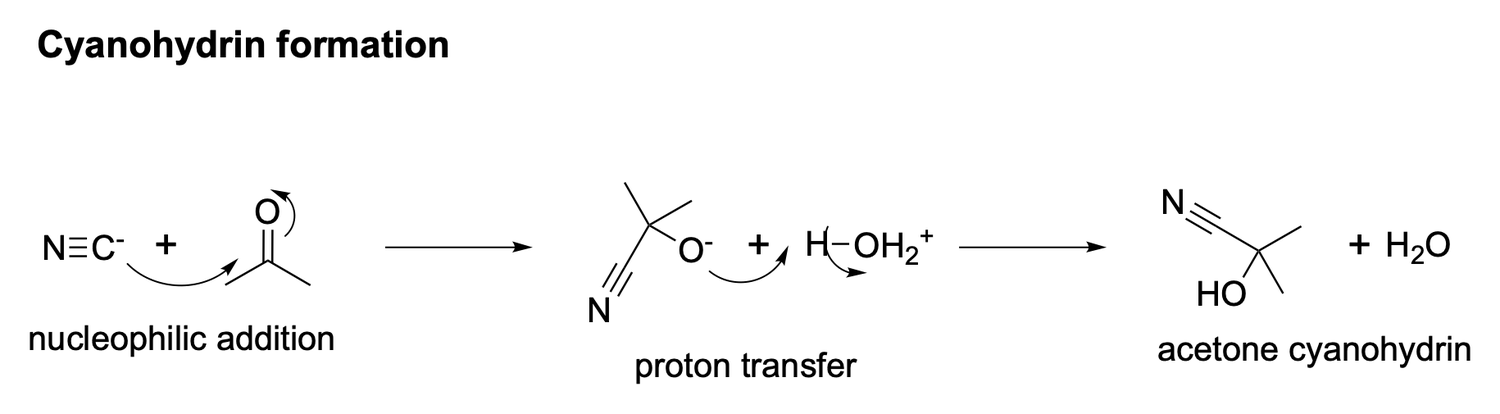
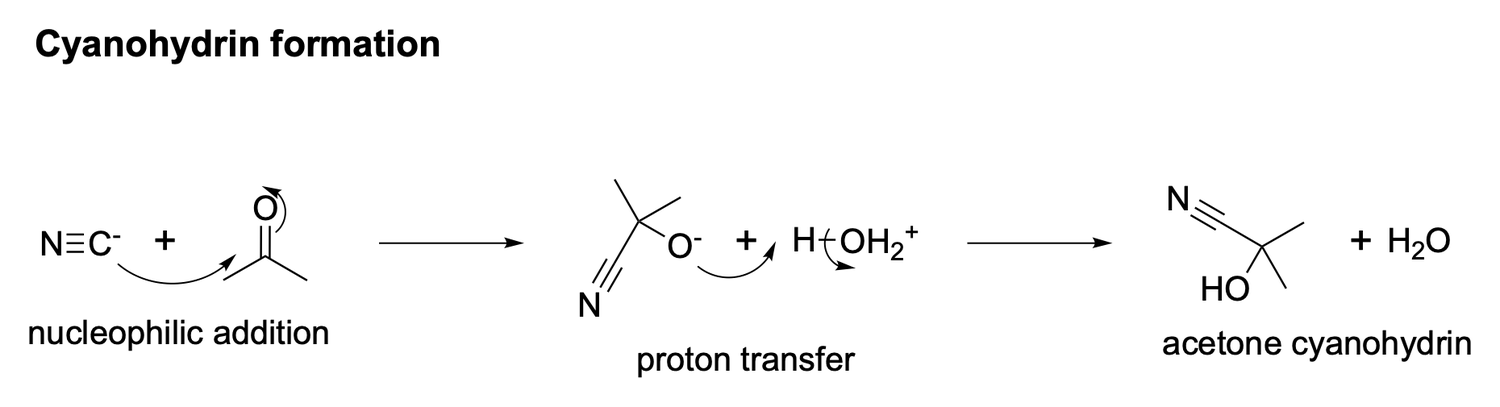
mechanism: fix arrow endpoints (label boxes, charges, hydrogens), add HBr mechanism to the gallery

diff --git a/chemdrawmcp/mechanism.py b/chemdrawmcp/mechanism.py
@@ -57,7 +57,7 @@ LABEL_OFFSET = 0.42         # arrow head outside a labelled atom (O, N, Cl, char
 LONE_PAIR_OFFSET = 0.5      # arrow tail leaving a lone pair / anion
 MAX_ATOM_OFFSET = 0.6       # normally never further than this from the referenced atom ...
 MAX_LABEL_OFFSET = 1.0      # ... unless a wide label ("OH-", "H3N+") has to be cleared
-BOND_OFFSET = 0.35          # arrow end beside a bond midpoint
+BOND_OFFSET = 0.22          # arrow end beside a bond midpoint (ChemDraw starts bond arrows on the bond itself)
 MIN_CLEARANCE = 0.3         # keep arrow ends this far from other atoms
 MIN_SWEEP, MAX_SWEEP = 90.0, 150.0   # arc sweep range (degrees): clearly visible hooks at ACS size
 
@@ -541,6 +541,7 @@ class FragmentGeometry:
     neighbors: List[List[int]] = field(default_factory=list)
     bond_orders: Dict[Tuple[int, int], str] = field(default_factory=dict)
     label_boxes: Dict[int, Box] = field(default_factory=dict)  # estimated label box per labelled atom (when recorded)
+    label_sides: Dict[int, str] = field(default_factory=dict)  # 'left' (hydrogens first, 'H3C'), 'right' ('OH') or 'center'
 
     @property
     def n_atoms(self) -> int:
@@ -648,6 +649,7 @@ def fragment_geometry(doc: CDXMLDocument, ref: ObjRef, index: int = 0, mol: Any 
         try:
             i = int(lab["atom"])
             geom.label_boxes[i] = Box(*[float(v) for v in lab["box"]])
+            geom.label_sides[i] = str(lab.get("side") or "center")
             if 0 <= i < n:
                 geom.labelled[i] = True
         except (KeyError, TypeError, ValueError):
@@ -703,6 +705,9 @@ class _Stage:
         if key[1] < 0 or key[1] >= fr.n_atoms:
             raise ValueError("atom %d out of range for fragment %d (%d atoms)" % (key[1], key[0], fr.n_atoms))
         return fr.positions[key[1]]
+
+    def label_side(self, key: AtomKey) -> str:
+        return self.frag(key[0]).label_sides.get(key[1], "center")
 
     def label_box(self, key: AtomKey) -> Optional[Box]:
         return self.frag(key[0]).label_boxes.get(key[1])
@@ -778,6 +783,13 @@ def _atom_endpoint(stage: _Stage, key: AtomKey, other: Optional[Point], centroid
     toward_w, apart = (0.8, 0.6 * L) if role == "tail" else (0.3, 1.0 * L)
     bond_dirs = [_unit(_sub(frag.positions[j], p)) for j in frag.neighbors[i] if _dist(frag.positions[j], p) > 1e-6]
     h_dir = _hydrogen_direction(frag, i, bond_dirs) if lbox is None else None
+    charge_pt = (0.0, 0.0)
+    if charge_dir is not None:
+        cc = _charge_corner(p, lbox)
+        charge_pt = (cc[0] - (2.5 if cc[0] > p[0] else -2.5), cc[1] + 2.0)
+    hs_dir = None                         # side of the label that carries the hydrogens of "H3C" / "OH"
+    if lbox is not None and frag.hydrogens[i] > 0 and stage.label_side(key) in ("left", "right"):
+        hs_dir = (-1.0, 0.0) if stage.label_side(key) == "left" else (1.0, 0.0)
     if not bond_dirs and other is not None and lbox is None:
         h_dir = None                      # isolated atom: nothing but the partner decides the side
     others = stage.atoms_except([key])
@@ -802,6 +814,13 @@ def _atom_endpoint(stage: _Stage, key: AtomKey, other: Optional[Point], centroid
             c = _dot(d, charge_dir)
             if c > 0:
                 score -= 1.2 * c * c                    # do not cover the charge superscript
+            cd = _dist(pt, charge_pt)
+            if cd < 0.65 * L:
+                score -= 4.0 * (0.65 * L - cd) / L      # ... nor touch it
+        if hs_dir is not None:
+            c = _dot(d, hs_dir)
+            if c > 0:
+                score -= 2.5 * c * c                    # ends point at the atom's symbol, not at its hydrogens ("H3C")
         if other is not None:
             v = _sub(other, p)
             nv = _norm(v)
@@ -898,8 +917,37 @@ def _new_bond_endpoint(stage: _Stage, a: AtomKey, b: AtomKey, source_atoms: Sequ
             n = _mul(n, -1.0)
         return _add(m, _mul(n, 0.2 * L))
     u = _unit(_sub(s, e))
-    off = max(_clamp(0.5 * _dist(s, e), 0.4 * L, MAX_ATOM_OFFSET * L),
-              min(_exit_distance(e, u, stage.label_box(ekey)) + 0.06 * L, MAX_LABEL_OFFSET * L))
+    lbox = stage.label_box(ekey)
+    frag_e = stage.frag(ekey[0])
+    charge_pt = None
+    if lbox is not None and frag_e.charges[ekey[1]]:
+        cc = _charge_corner(e, lbox)
+        charge_pt = (cc[0] - (2.5 if cc[0] > e[0] else -2.5), cc[1] + 2.0)
+    hs_dir = None
+    if lbox is not None and frag_e.hydrogens[ekey[1]] > 0 and stage.label_side(ekey) in ("left", "right"):
+        hs_dir = (-1.0, 0.0) if stage.label_side(ekey) == "left" else (1.0, 0.0)
+    base_off = _clamp(0.5 * _dist(s, e), 0.4 * L, MAX_ATOM_OFFSET * L)
+    if charge_pt is not None or hs_dir is not None:
+        # swing the approach direction (up to 75 degrees either way) away from the charge sign and the hydrogens
+        best_u, best_sc = u, -1e9
+        for k in range(-15, 16):
+            th = math.radians(5.0 * k)
+            cu = (u[0] * math.cos(th) - u[1] * math.sin(th), u[0] * math.sin(th) + u[1] * math.cos(th))
+            o = max(base_off, min(_exit_distance(e, cu, lbox) + 0.06 * L, MAX_LABEL_OFFSET * L))
+            cand = _add(e, _mul(cu, o))
+            sc = -abs(k) * 0.02
+            if charge_pt is not None:
+                cd = _dist(cand, charge_pt)
+                if cd < 0.7 * L:
+                    sc -= 4.0 * (0.7 * L - cd) / L
+            if hs_dir is not None:
+                c = _dot(cu, hs_dir)
+                if c > 0:
+                    sc -= 2.5 * c * c
+            if sc > best_sc:
+                best_sc, best_u = sc, cu
+        u = best_u
+    off = max(base_off, min(_exit_distance(e, u, lbox) + 0.06 * L, MAX_LABEL_OFFSET * L))
     pt = _add(e, _mul(u, off))
     n = _perp(u)
     v = _sub(pt, centroid)

diff --git a/tests/test_mechanism.py b/tests/test_mechanism.py
@@ -59,7 +59,7 @@ def assert_near_bond(point, ref, i, j, L):
     pos = mechanism.fragment_atom_positions(_DOC[0], ref)
     mid = ((pos[i][0] + pos[j][0]) / 2.0, (pos[i][1] + pos[j][1]) / 2.0)
     d = dist(point, mid)
-    assert 0.2 * L <= d <= 0.5 * L, "end %s is %.2f L from the midpoint of bond %d-%d" % (point, d / L, i, j)
+    assert 0.1 * L <= d <= 0.5 * L, "end %s is %.2f L from the midpoint of bond %d-%d" % (point, d / L, i, j)
     assert dist(point, pos[i]) <= 0.85 * L and dist(point, pos[j]) <= 0.85 * L
 
 
@@ -298,9 +298,9 @@ def test_sn2_two_fragments_per_stage():
     c_pos = mechanism.fragment_atom_positions(doc, chloromethane)[0]
     assert lp.extra["head"][0] < c_pos[0]                        # approaches from the hydroxide side
     assert lp.extra["target"]["kind"] == "new_bond" and lp.extra["fragment_ids"] == [hydroxide.id, chloromethane.id]
-    # C-Cl bond tail beside the bond (>= 0.3 L off the bond line), head beside the chlorine, clearly visible hook
+    # C-Cl bond tail on the bond (0.1-0.5 L off the bond line), head beside the chlorine, clearly visible hook
     assert_near_bond(cl.extra["tail"], chloromethane, 0, 1, L)
-    assert abs(cl.extra["tail"][1] - mechanism.fragment_atom_positions(doc, chloromethane)[0][1]) >= 0.3 * L
+    assert abs(cl.extra["tail"][1] - mechanism.fragment_atom_positions(doc, chloromethane)[0][1]) >= 0.1 * L
     assert_near_atom(cl.extra["head"], chloromethane, 1, L)
     assert dist(cl.extra["tail"], cl.extra["head"]) >= 0.8 * L
     for a in arrows:
@@ -483,7 +483,7 @@ def test_tiny_structures_get_atom_labels():
     assert labelled_atoms(acetone) == 0                                               # normal skeletal drawing
     assert labelled_atoms(hydroxide) == 1 and labelled_atoms(chloride) == 1            # single ions are tiny too
     assert labelled_atoms(plain) == 0                                                 # explicit override wins
-    assert [lab["text"] for lab in chloromethane.extra["labels"]] == ["CH3", "Cl"]
+    assert [lab["text"] for lab in chloromethane.extra["labels"]] == ["H3C", "Cl"]      # ChemDraw draws the carbon label hydrogens-first when the bond is on its right
     # atom indices are unaffected and arrow ends stay outside the (wider) labels
     lp, cl = electron_arrows(doc)[:2]
     assert lp.extra["target"]["atoms"] == [[0, 0], [1, 0]]

diff --git a/examples/make_gallery.py b/examples/make_gallery.py
@@ -48,6 +48,13 @@ def entries():
                 {"structures": ["N#CC(C)(C)[O-]", "[H][OH2+]"], "arrows": ["lp:0:5->0:5-1:0", "1:0-1:1->1:1"], "label": "proton transfer"},
                 {"structures": ["N#CC(C)(C)O", "O"], "label": "acetone cyanohydrin"},
             ])),
+        "hbr": ("draw_mechanism", dict(
+            title="Electrophilic addition of HBr to ethene",
+            stages=[
+                {"structures": ["C=C", "[H]Br"], "arrows": ["0:0=0:1->0:0-1:0", "1:0-1:1->1:1"], "label": "protonation"},
+                {"structures": ["[CH2+]C", "[Br-]"], "arrows": ["lp:1:0->1:0-0:0"], "label": "bromide attack"},
+                {"structures": ["CCBr"], "label": "bromoethane"},
+            ])),
         "esterification": ("draw_reaction", dict(
             reaction="acetic acid + ethanol --[H2SO4 (cat.)]--> ethyl acetate + water",
             conditions_below=["reflux, 4 h"], product_labels=["85%", None], arrow="equilibrium")),

diff --git a/chemdrawmcp/textmetrics.py b/chemdrawmcp/textmetrics.py
@@ -427,7 +427,8 @@ def fragment_labels(mol, pts: Sequence[Tuple[float, float]], size: float, label_
                 sx += (nx - x) / d
                 sy += (ny - y) / d
         mean_dx = sx / deg if deg else 0.0
-        side = "center" if explicit else _label_side(deg, mean_dx)
+        # ChemDraw re-lays out explicit labels too ("CH3" next to a bond on its right becomes "H3C", the symbol on the node)
+        side = _label_side(deg, mean_dx)
         if full:
             if z == 0:
                 sym = atom.GetProp("dummyLabel") if atom.HasProp("dummyLabel") else (

diff --git a/CHANGELOG.md b/CHANGELOG.md
@@ -7,6 +7,7 @@ and this project adheres to [Semantic Versioning](https://semver.org/spec/v2.0.0
 
 ## Unreleased
 
+- Mechanism arrows: label boxes of explicitly labelled atoms now follow ChemDraw's hydrogens-first layout ("H3C"), so heads no longer land on the hydrogens; heads keep clear of charge superscripts (also for bond-forming arrows); bond-sourced tails start closer to the bond.
 - README rewritten around a gallery of ChemDraw renders (mechanisms, reactions, schemes, NMR); reference material moved to `docs/detailed.md`; `examples/make_gallery.py` regenerates the images.
 
 ## 0.1.0 - 2026-11-07

diff --git a/README.md b/README.md
@@ -35,6 +35,10 @@ them out with reaction arrows between the stages.
 
 <p align="center"><img src="docs/images/cyanohydrin.png" width="820" alt="Cyanohydrin formation mechanism"></p>
 
+> *"Show the electrophilic addition of HBr to ethene step by step with curved arrows."*
+
+<p align="center"><img src="docs/images/hbr.png" width="820" alt="Electrophilic addition of HBr to ethene"></p>
+
 ### Reactions
 
 > *"Draw the Fischer esterification of acetic acid with ethanol, H2SO4 (cat.) above the arrow, reflux 4 h below,
